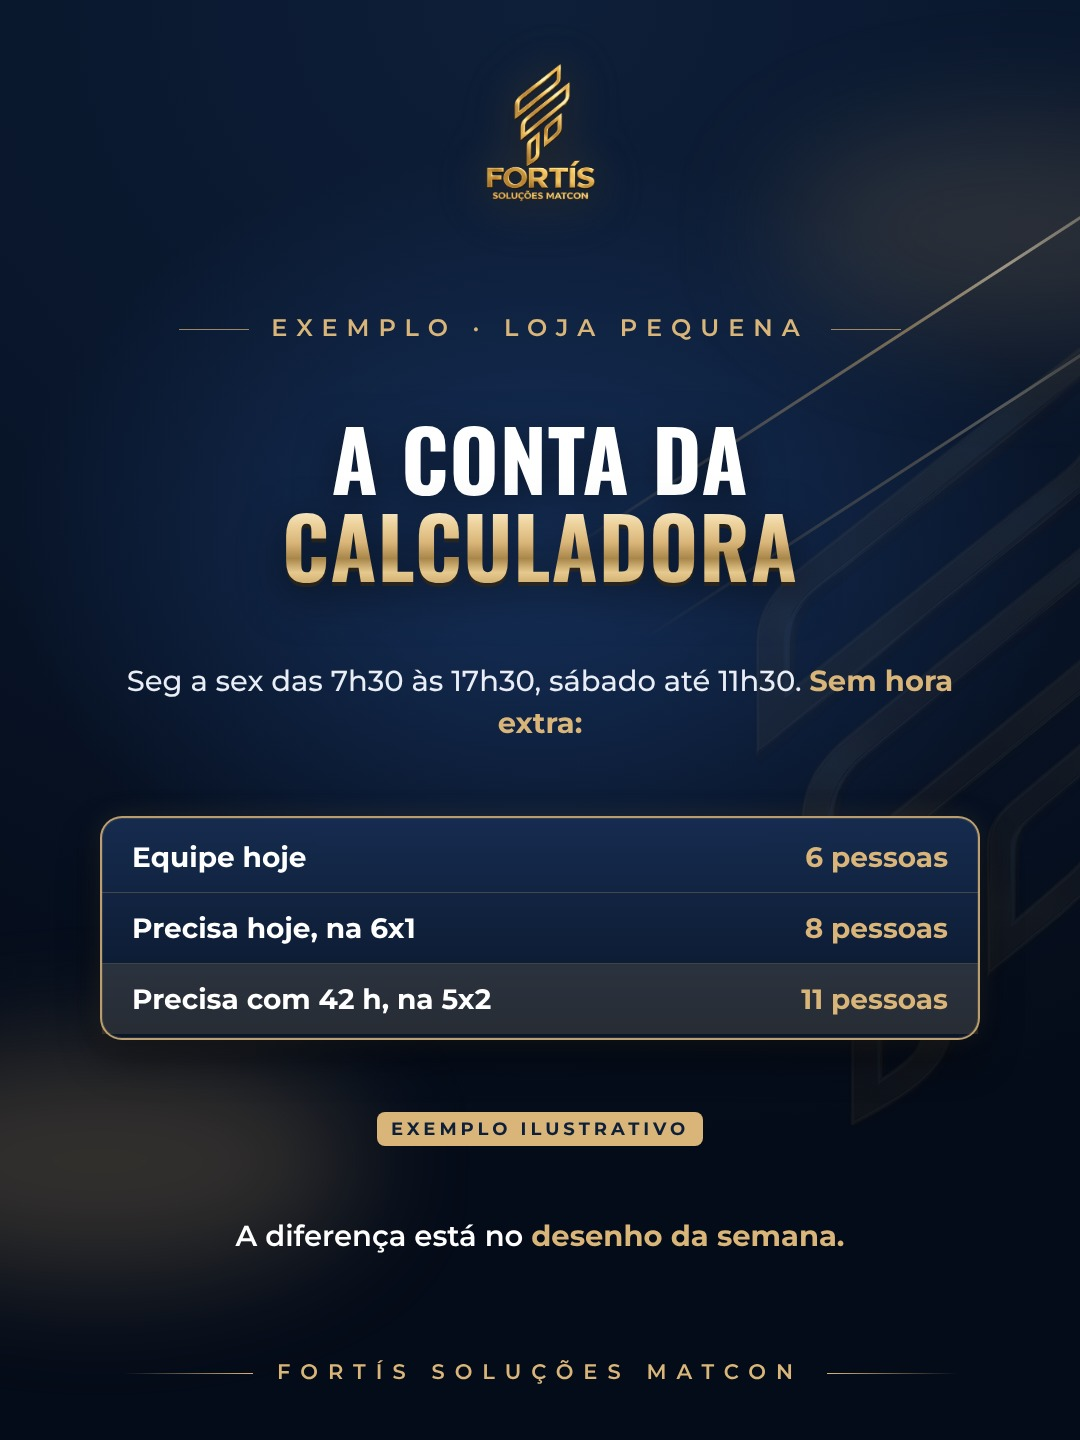
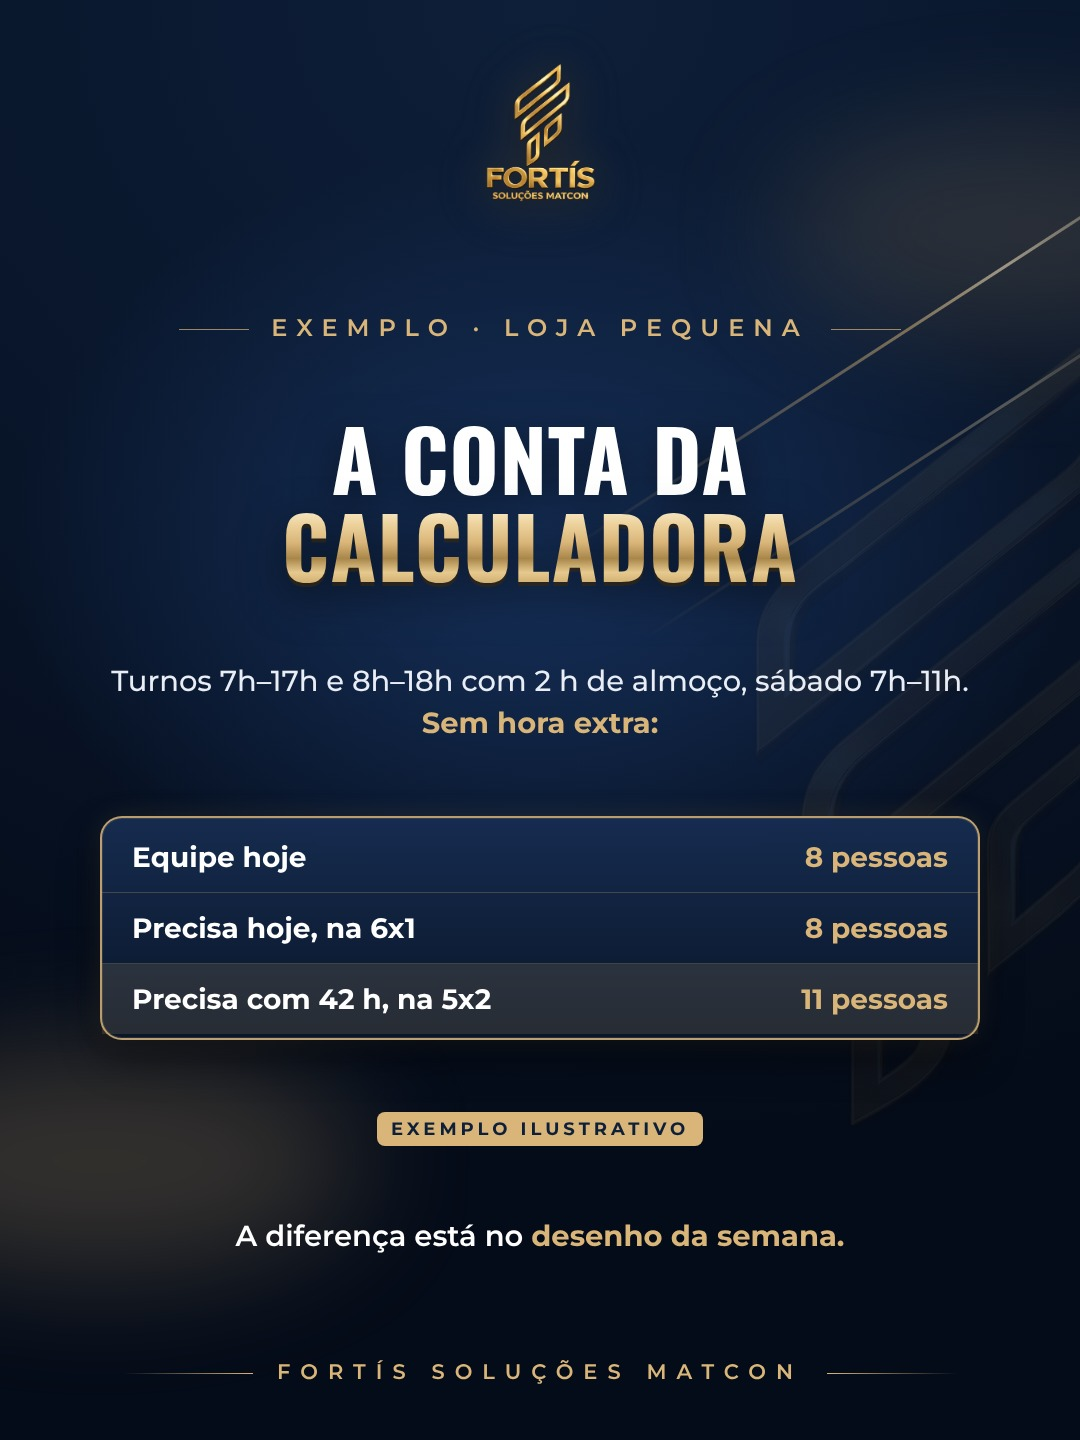
Série 5x2: números da calculadora por turnos (loja pequena 8 -> 11, contratar 3 = R$ 7.676)
Claude-Session: https://claude.ai/code/session_01HVzRnNg6pzCVkCeZ2TrhZb

Changed region(s): [[0.1222, 0.4688, 0.8861, 0.5312]]

diff --git a/gerador/especiais/serie-calculadora-5x2.py b/gerador/especiais/serie-calculadora-5x2.py
@@ -75,22 +75,22 @@ SERIE['24-11'] = dict(
 SERIE['27-11'] = dict(
   feed=('escala-5x2-sabado', [
     capa("ESCALA 5x2 · O PONTO CEGO", ["O SÁBADO", "VIROU O PROBLEMA"], "Hoje todo mundo trabalha 6 dias. <b>Com 5, alguém precisa folgar durante a semana</b> para cobrir o sábado.", 108),
-    slide("POR QUE A CONTA NÃO FECHA", ["DIAS, NÃO", "SÓ HORAS"], [("5 dias por pessoa", "A loja abre 6: um dia fica para outra pessoa cobrir."), ("Dia de 10 horas", "Uma jornada de 8h24 não cobre o dia sozinha."), ("Caixa e balcão", "São os primeiros setores a ficar descobertos.")], 92),
-    conta("EXEMPLO · LOJA PEQUENA", ["A CONTA DA", "CALCULADORA"], "Seg a sex das 7h30 às 17h30, sábado até 11h30. <b>Sem hora extra:</b>",
-      [("Equipe hoje", "6 pessoas"), ("Precisa hoje, na 6x1", "8 pessoas"), ("Precisa com 42 h, na 5x2", "11 pessoas")], (2,),
+    slide("POR QUE A CONTA NÃO FECHA", ["DIAS, NÃO", "SÓ HORAS"], [("5 dias por pessoa", "A loja abre 6: um dia fica para outra pessoa cobrir."), ("Quem cobre o sábado", "Folga num dia da semana, e alguém cobre essa folga."), ("Caixa e balcão", "São os primeiros setores a ficar descobertos.")], 92),
+    conta("EXEMPLO · LOJA PEQUENA", ["A CONTA DA", "CALCULADORA"], "Turnos 7h–17h e 8h–18h com 2 h de almoço, sábado 7h–11h. <b>Sem hora extra:</b>",
+      [("Equipe hoje", "8 pessoas"), ("Precisa hoje, na 6x1", "8 pessoas"), ("Precisa com 42 h, na 5x2", "11 pessoas")], (2,),
       'A diferença está no <b>desenho da semana.</b>', 84),
     fim(["SIMULE A", "SUA LOJA"], [SITE, ("Escala pronta", "Quem trabalha e quem folga, dia a dia.")], 'Quer ajuda para montar? <b>Chame no direct.</b>')],
-    'Escala 5x2 na loja de material de construção: o sábado virou o problema.\n\nCom 5 dias de trabalho por pessoa e a loja aberta 6, alguém precisa folgar durante a semana para cobrir o sábado. E um dia de 10 horas não cabe numa jornada de 8h24. No exemplo da loja pequena, a equipe que precisa de 8 pessoas hoje, sem hora extra, passa a precisar de 11: quem abre a loja não consegue fechar, e cada um tem 1 hora de almoço.\n\nSimule a sua loja na calculadora gratuita: fortismatcon.com.br/ferramentas\n\nExemplo ilustrativo. Cada loja deve validar a escala com o seu contador.'),
+    'Escala 5x2 na loja de material de construção: o sábado virou o problema.\n\nCom 5 dias de trabalho por pessoa e a loja aberta 6, alguém precisa folgar durante a semana para cobrir o sábado. No exemplo da loja pequena, com turnos das 7h às 17h e das 8h às 18h e sábado de manhã, a equipe de 8 pessoas que fecha a semana hoje passa a precisar de 11.\n\nSimule a sua loja na calculadora gratuita: fortismatcon.com.br/ferramentas\n\nExemplo ilustrativo. Cada loja deve validar a escala com o seu contador.'),
   story=('escala-5x2-sabado', chamada("ESCALA 5x2", ["QUEM VAI FOLGAR", "NO SÁBADO?"], "Com 5 dias por pessoa, <b>o sábado precisa sair da folga de alguém.</b> A calculadora monta a escala.", 100)),
 )
 
 # ======================================================================= 02/12 (qua)
 SERIE['02-12'] = dict(
-  feed=('escala-5x2-extra-ou-contratar', conta("A CONTA DA LOJA", ["HORA EXTRA", "OU CONTRATAR?"], "Loja pequena, 6 pessoas, Simples Nacional, <b>a partir de 16/12/2026:</b>",
-      [("Só hora extra", "não fecha"), ("Só contratação (5 pessoas)", "R$ 12.771/mês"), ("4 contratações + 23 h extras", "R$ 10.689/mês")], (2,),
+  feed=('escala-5x2-extra-ou-contratar', conta("A CONTA DA LOJA", ["HORA EXTRA", "OU CONTRATAR?"], "Loja pequena, 8 pessoas, Simples Nacional, <b>a partir de 16/12/2026:</b>",
+      [("Pessoas necessárias", "11 (hoje 8)"), ("Só hora extra", "não fecha"), ("Contratar 3 pessoas", "R$ 7.676/mês")], (2,),
       f'Calcule a da sua loja:<br><b>{URL}</b>', 88, 27),
-    'Escala 5x2: pagar hora extra ou contratar?\n\nNo exemplo da loja pequena (6 pessoas, Simples Nacional), só com hora extra a conta não fecha: o caixa fica descoberto. Contratar 5 pessoas custa R$ 12.771 por mês. A combinação mais barata, 4 contratações e 23 horas extras, sai por R$ 10.689 por mês.\n\nA calculadora gratuita compara os três caminhos para a sua loja: fortismatcon.com.br/ferramentas\n\nExemplo ilustrativo, com encargos estimados. Confirme os números com o seu contador.'),
-  story=('escala-5x2-extra-ou-contratar', chamada("A CONTA DA LOJA", ["HORA EXTRA", "OU CONTRATAR?"], "A diferença entre a saída certa e a errada passa de <b>R$ 2 mil por mês.</b>", 94)),
+    'Escala 5x2: pagar hora extra ou contratar?\n\nNo exemplo da loja pequena (8 pessoas, Simples Nacional), só com hora extra a conta não fecha: as duas folgas são obrigatórias e ninguém pode cobrir o sábado como sexto dia. A saída é contratar 3 pessoas, por R$ 7.676 por mês com encargos.\n\nA calculadora gratuita compara os três caminhos para a sua loja: fortismatcon.com.br/ferramentas\n\nExemplo ilustrativo, com encargos estimados. Confirme os números com o seu contador.'),
+  story=('escala-5x2-extra-ou-contratar', chamada("A CONTA DA LOJA", ["HORA EXTRA", "OU CONTRATAR?"], "Na 5x2, <b>hora extra não cobre o sábado:</b> as duas folgas são obrigatórias.", 94)),
 )
 
 # ======================================================================= 08/12 (ter)
